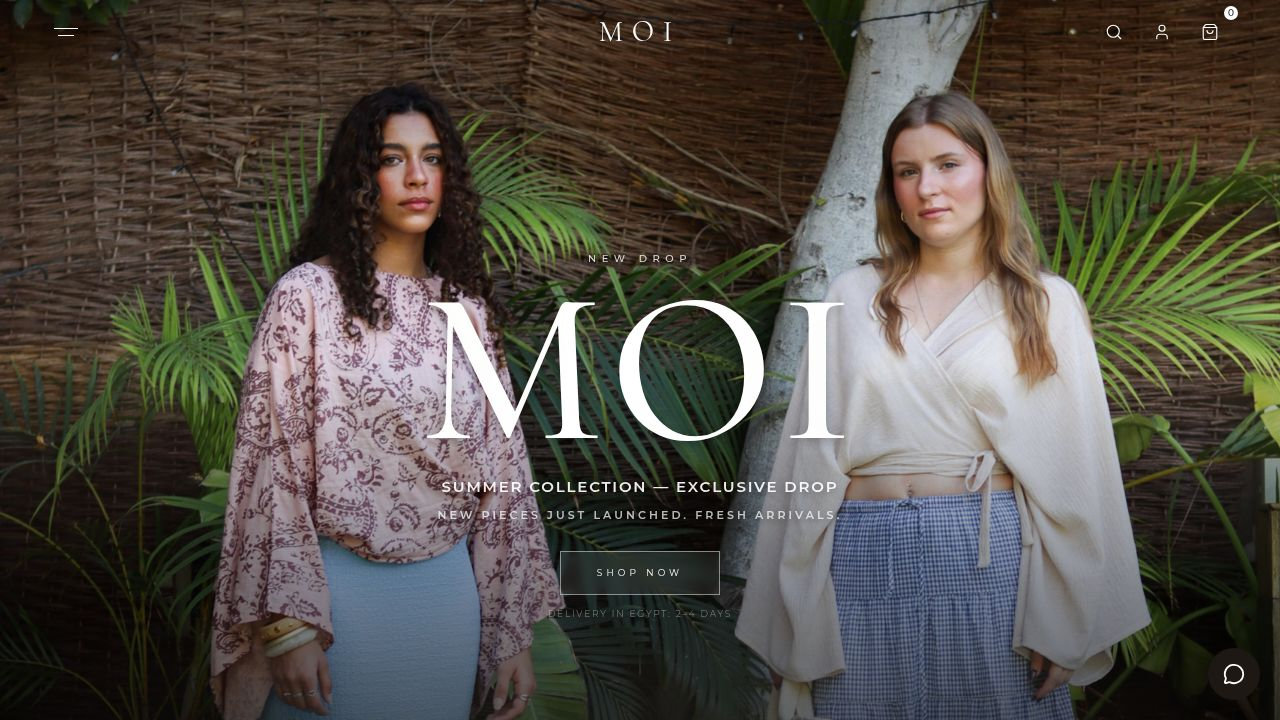
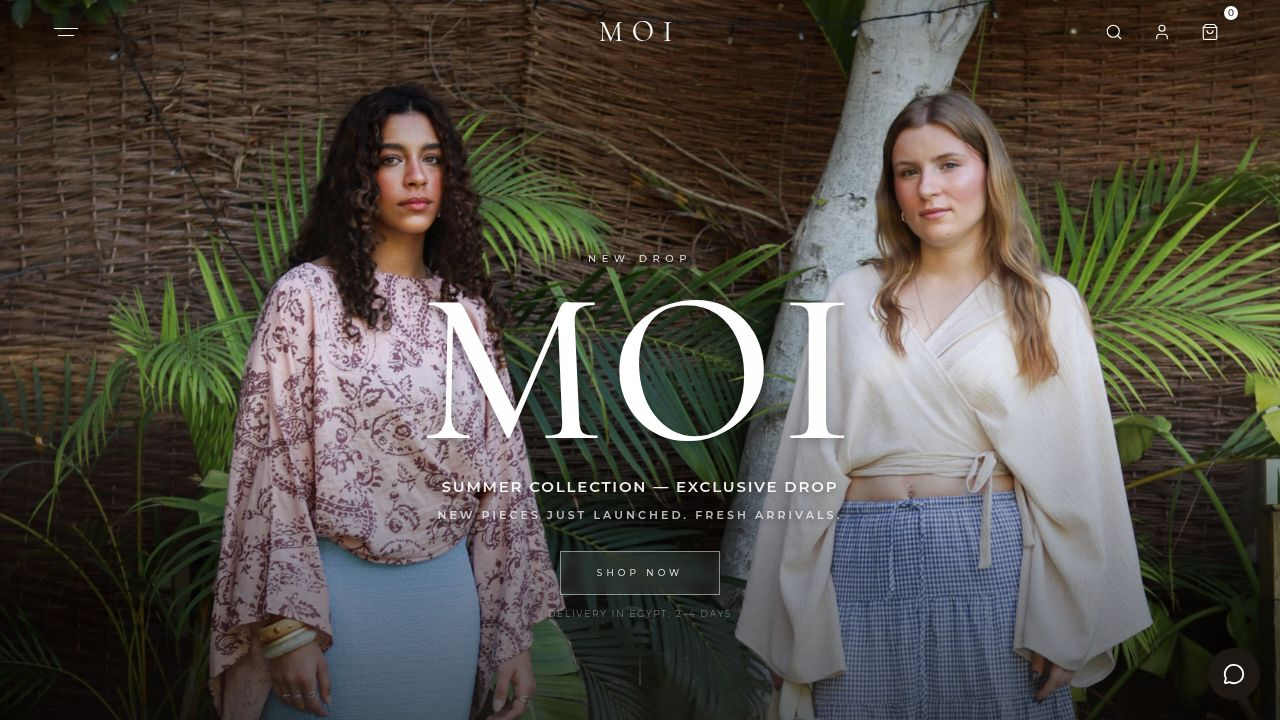
Restored to 'be00602029cbbd16dc4dff581f6f16af8804ee78'
Replit-Restored-To: be00602029cbbd16dc4dff581f6f16af8804ee78

diff --git a/artifacts/moi/src/hooks/useShopifyProductByHandle.ts b/artifacts/moi/src/hooks/useShopifyProductByHandle.ts
@@ -27,38 +27,7 @@ export function useShopifyProductByHandle(
       .then((shopifyProduct) => {
         if (cancelled) return;
         if (shopifyProduct) {
-          let mapped = mapProductToConfig(shopifyProduct, fallback);
-          // Respect fallback out-of-stock flags. If ALL fallback variants are
-          // unavailable, force all Shopify variants as unavailable (covers the case
-          // where the product is intentionally disabled in the frontend config).
-          // If only some variants are unavailable, match by variant ID.
-          if (mapped.variants) {
-            const fallbackVariants = fallback.variants ?? [];
-            const allFallbackUnavailable = fallbackVariants.length > 0 && fallbackVariants.every((v) => !v.availableForSale);
-            if (allFallbackUnavailable) {
-              mapped = {
-                ...mapped,
-                variants: mapped.variants.map((v) => ({ ...v, availableForSale: false })),
-              };
-            } else {
-              const fallbackUnavailableIds = new Set(
-                fallbackVariants
-                  .filter((v) => !v.availableForSale)
-                  .map((v) => v.id),
-              );
-              if (fallbackUnavailableIds.size > 0) {
-                mapped = {
-                  ...mapped,
-                  variants: mapped.variants.map((v) =>
-                    fallbackUnavailableIds.has(v.id)
-                      ? { ...v, availableForSale: false }
-                      : v,
-                  ),
-                };
-              }
-            }
-          }
-          setProduct(mapped);
+          setProduct(mapProductToConfig(shopifyProduct, fallback));
         }
         setLoading(false);
       })

diff --git a/artifacts/moi/src/hooks/useShopifyProducts.ts b/artifacts/moi/src/hooks/useShopifyProducts.ts
@@ -84,7 +84,7 @@ export function mapProductToConfig(shopify: ShopifyProduct, fallback: ProductCon
       }
       return fromShopify;
     })(),
-    defaultInventory: fallback.defaultInventory ?? {
+    defaultInventory: {
       brown: { Small: 10, Medium: 10 },
       taupe: { Small: 10, Medium: 10 },
       ivory: { Small: 10, Medium: 10 },
@@ -139,36 +139,7 @@ export function useShopifyProducts(fallbacks: ProductConfig[]): UseShopifyProduc
           ) ?? fallbacks.find((fb) =>
             fb.name && fb.name.toLowerCase().includes(spTitle)
           ) ?? fallbacks[0];
-          let mapped = mapProductToConfig(sp, matched);
-          // Respect fallback out-of-stock flags. If ALL fallback variants are
-          // unavailable, force all Shopify variants as unavailable.
-          if (mapped.variants) {
-            const fallbackVariants = matched.variants ?? [];
-            const allFallbackUnavailable = fallbackVariants.length > 0 && fallbackVariants.every((v) => !v.availableForSale);
-            if (allFallbackUnavailable) {
-              mapped = {
-                ...mapped,
-                variants: mapped.variants.map((v) => ({ ...v, availableForSale: false })),
-              };
-            } else {
-              const fallbackUnavailableIds = new Set(
-                fallbackVariants
-                  .filter((v) => !v.availableForSale)
-                  .map((v) => v.id),
-              );
-              if (fallbackUnavailableIds.size > 0) {
-                mapped = {
-                  ...mapped,
-                  variants: mapped.variants.map((v) =>
-                    fallbackUnavailableIds.has(v.id)
-                      ? { ...v, availableForSale: false }
-                      : v,
-                  ),
-                };
-              }
-            }
-          }
-          return mapped;
+          return mapProductToConfig(sp, matched);
         });
         setProducts(mapped);
         setLoading(false);

diff --git a/artifacts/moi/src/config/images.ts b/artifacts/moi/src/config/images.ts
@@ -319,14 +319,6 @@ export const IMAGES = {
     outer: "Material: Brass with gold-tone plating",
     lining: "Set of 3 bangles",
     ref: "ACC/001/TRB",
-    variantId: "gid://shopify/ProductVariant/40655896985741",
-    variants: [
-      { id: "gid://shopify/ProductVariant/40655896985741", title: "One Size", availableForSale: false, inventoryQuantity: 0, price: "890 EGP", selectedOptions: [{ name: "Size", value: "One Size" }] },
-    ],
-    defaultInventory: {
-      ivory: { "One Size": 0 },
-      beige: { "One Size": 0 },
-    },
   },
 } as const;
 

diff --git a/artifacts/moi/src/components/ProductCard.tsx b/artifacts/moi/src/components/ProductCard.tsx
@@ -733,12 +733,7 @@ export function ProductCard({ product, onLookView, onNavigateToProduct }: Produc
                 <motion.button
                   type="button"
                   variants={itemVariants}
-                  onClick={() => {
-                    const handle = displayColors.length > 0
-                      ? `${product.slug}-${slugify(selectedColor)}`
-                      : product.slug;
-                    onNavigateToProduct(handle);
-                  }}
+                  onClick={() => onNavigateToProduct(`${product.slug}-${slugify(selectedColor)}`)}
                   className="flex items-center gap-1.5 mb-2 transition-opacity duration-200 hover:opacity-55"
                   style={{
                     fontFamily: "'Montserrat', sans-serif",

diff --git a/artifacts/moi/src/components/AccessoriesPage.tsx b/artifacts/moi/src/components/AccessoriesPage.tsx
@@ -4,15 +4,14 @@ import { useShopifyProductByHandle } from "@/hooks/useShopifyProductByHandle";
 
 interface AccessoriesPageProps {
   onLookView: (product: ProductConfig) => void;
-  onNavigateToProduct?: (handle: string) => void;
 }
 
-export function AccessoriesPage({ onLookView, onNavigateToProduct }: AccessoriesPageProps) {
+export function AccessoriesPage({ onLookView }: AccessoriesPageProps) {
   const { product } = useShopifyProductByHandle("trio-bangles", IMAGES.product3);
 
   return (
     <main id="accessories" className="pt-20 md:pt-24 pb-24 md:pb-32">
-      <ProductCard product={product} onLookView={onLookView} onNavigateToProduct={onNavigateToProduct} />
+      <ProductCard product={product} onLookView={onLookView} />
     </main>
   );
 }

diff --git a/artifacts/moi/src/App.tsx b/artifacts/moi/src/App.tsx
@@ -372,7 +372,7 @@ function AppContent() {
           ) : page === "accessories" ? (
             <div>
               <Suspense fallback={<div style={{ minHeight: "60vh" }} />}>
-                <AccessoriesPage onLookView={setLookProduct} onNavigateToProduct={navigateToProduct} />
+                <AccessoriesPage onLookView={setLookProduct} />
                 <Footer onNavigate={(p, hash) => navigateTo(p as PageType, hash)} />
               </Suspense>
             </div>